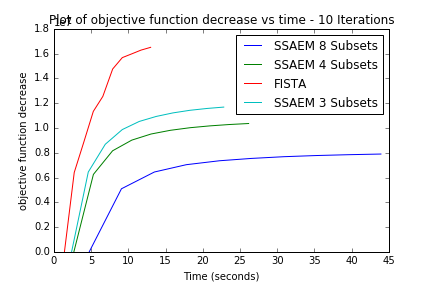
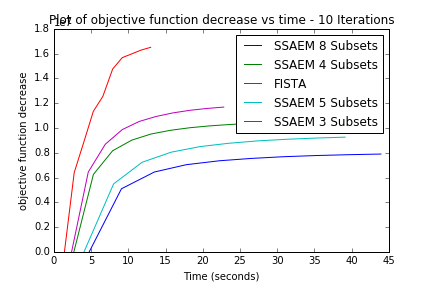
inclusion of pfft
Various changes

diff --git a/polar_fourier_slice.py b/polar_fourier_slice.py
@@ -1,10 +1,18 @@
-# I use the one encoding: utf8
+#!/usr/bin/env python2
+# -*- coding: utf-8 -*-
+"""
+Created on Mon Feb 20 17:46:22 2017
+
+@author: CupulFamily
+"""
+
+
 import pyraft as pr
 import numpy as np
 import math
 import pynfft.nfft as nf
 import warnings
-import matplotlib.pyplot as pp
+import pfft.py as pfft
 
 # TODO: Take sinogram's t_extent and image's corners in
 # consideration;
@@ -32,39 +40,6 @@ def make_fourier_slice_radon_transp( sino, shape = None, sino_zp_factor = 1.5, n
    functions for computing the Radon transform and its numerical transpose.
 
    Usage:
-
-import pyraft as pr
-import matplotlib.pyplot as pp
-import h5py
-import time
-
-f = h5py.File( '/home/elias/curimatã/CM-Day3/tomoTesteH2O.h5', 'r' )
-v = f[ 'images' ]
-sino = pr.image( np.transpose( v[ :, 450, : ] ).astype( np.float64 ), x_extent = ( 0.0, math.pi ) )
-
-fast_radon, fast_transp = make_fourier_slice_radon_transp( sino )
-
-st = time.time()
-bp = fast_transp( sino )
-print 'Done!', time.time() - st
-
-st = time.time()
-bp2 = pr.radon_transpose( sino, np.zeros( bp.shape ) )
-print 'Done!', time.time() - st
-
-pp.imshow( bp, interpolation = 'nearest' ); pp.colorbar(); pp.show()
-pp.imshow( bp2, interpolation = 'nearest' ); pp.colorbar(); pp.show()
-
-st = time.time()
-rbp = fast_radon( bp )
-print 'Done!', time.time() - st
-
-st = time.time()
-rbp2 = pr.radon( bp, pr.image( np.zeros( sino.shape ), x_extent = ( 0.0, math.pi ) ) )
-print 'Done!', time.time() - st
-
-pp.imshow( rbp, interpolation = 'nearest' ); pp.colorbar(); pp.show()
-pp.imshow( rbp2, interpolation = 'nearest' ); pp.colorbar(); pp.show()
 
   """
 
@@ -125,35 +100,26 @@ pp.imshow( rbp2, interpolation = 'nearest' ); pp.colorbar(); pp.show()
 
       # Execute plan:
       plan.f_hat = img
-      fsino = plan.trafo()
-      #print(fsino.shape)
+      fsino = pfft.fft(img,plan.M)
+
       # Assemble sinogram:
       fsino = np.reshape( fsino, ( sino_padded_size, sino.shape[ 1 ] ) )
-      #print(fsino.shape)
-      
-      
+
       # Inverse FFT:
       result = np.fft.ifft( fsino, axis = 0 )
-      #print(result.shape)
-      
-      
+
       # Shift result:
       result = np.fft.ifftshift( result, axes = ( 0, ) )
-      #print(result.shape)
+
       # Remove padding:
-     
       result = result[ delta + odd_sino : result.shape[ 0 ] - delta - extra + odd_sino ]
-        
-      #print(result.shape)
+
       # Get real part:
       result = np.real( result )
-      
+
       # Normalize:
       result /= ( 0.5 * ( sino.shape[ 0 ] - 1 ) )
-      Kino = pr.image(fsino, top_left = (0,1), bottom_right = (math.pi,-1) )
-      pp.imshow(Kino,cmap = 'gray_r', interpolation = 'nearest', 
-		extent = ( Kino.top_left[ 0 ], Kino.bottom_right[ 0 ], Kino.bottom_right[ 1 ], Kino.top_left[ 1 ] ))
-      pp.show
+
       # Return image with appropriate bounding box:
       return pr.image( result, top_left = sino.top_left, bottom_right = sino.bottom_right )
 
@@ -189,42 +155,7 @@ pp.imshow( rbp2, interpolation = 'nearest' ); pp.colorbar(); pp.show()
    return fast_radon, fast_radon_transpose
 
 if __name__ == '__main__':
-   #import pyraft as pr
-   #import matplotlib.pyplot as pp
-   #import h5py
-   #import time
-
-   #f = h5py.File( '/home/elias/curimatã/CM-Day3/tomoTesteH2O.h5', 'r' )
-   #v = f[ 'images' ]
-   #sino = pr.image( np.transpose( v[ :, 450, : ] ).astype( np.float64 ), x_extent = ( 0.0, math.pi ) )
-
-   #fast_radon, fast_transp = make_fourier_slice_radon_transp( sino )
-
-   #st = time.time()
-   #bp = fast_transp( sino )
-   #print 'Done!', time.time() - st
-
-   #st = time.time()
-   #bp2 = pr.radon_transpose( sino, np.zeros( bp.shape, dtype = np.float64 ) )
-   #print 'Done!', time.time() - st
-
-   #print np.max( bp2 ) / np.max( bp ), np.mean( bp2 ) / np.mean( bp )
-
-   #pp.imshow( bp, interpolation = 'nearest' ); pp.colorbar(); pp.show()
-   #pp.imshow( bp2, interpolation = 'nearest' ); pp.colorbar(); pp.show()
-   #pp.imshow( np.absolute( bp2 - bp ), interpolation = 'nearest' ); pp.colorbar(); pp.show()
-
-   #N = 2048; M = 200
-   #img = pr.shepp_logan( ( N, N ) )
-   #fast_radon2, fast_transp2 = make_fourier_slice_radon_transp( pr.image( ( N, M ), x_extent = ( 0.0, math.pi ) ) )
-   #sino2 = fast_radon2( img )
-   #print np.max( sino2 )
-   ##pp.imshow( sino2, interpolation = 'nearest', extent = sino2.extent() ); pp.colorbar(); pp.show()
-   #sino3 = pr.radon( pr.shepp_logan_desc(), pr.image( ( N, M ), x_extent = ( 0.0, math.pi ) ) )
-   ##pp.imshow( sino3, interpolation = 'nearest', extent = sino2.extent() ); pp.colorbar(); pp.show()
-   #pp.imshow( np.absolute( ( sino2 - sino3 ) ), extent = sino2.extent(), interpolation = 'nearest' ); pp.colorbar(); pp.show()
-   #t = np.arange( sino2.shape[ 0 ] )
-   #pp.plot( t, np.absolute( sino2[ :, 0 ] ), t + 1, np.flipud( sino2[ :, sino2.shape[ 1 ] - 1 ] ), 'r' ); pp.show()
+    
    import pyraft as pr
    import matplotlib.pyplot as pp
    import h5py

diff --git a/pfft.py b/pfft.py
@@ -1,0 +1,114 @@
+#!/usr/bin/env python2
+# -*- coding: utf-8 -*-
+"""
+Created on Mon Feb 20 18:19:45 2017
+
+@author: CupulFamily
+"""
+import pyraft as pr
+import numpy as np
+import math
+import warnings
+import matplotlib.pyplot as pp
+
+def fft(img):
+    nfft_zp_factor = 1.2
+    A = np.ones((11,11))
+    #A = pr.image_read( 'TomoData/PhantomData/sl.mat')
+#    PAD = ([i * nfft_zp_factor for i in A.shape])
+#    
+#    PAD[0] = int(PAD[0])
+#    PAD[1] = int(PAD[1])
+#    print(PAD)
+#    A = np.pad(A, PAD, 'minimum')
+    r,c = A.shape
+    N = r-1
+    M = 10
+    m = M
+    dtheta = np.pi/M
+    F = np.zeros((M,r))+0j
+    
+    if np.mod(M,4) == 0:
+        L = M/4
+    elif np.mod(M,2) == 0:
+        L = (M-2)/4
+
+    fx = np.zeros((r,c))+0j
+    fy = np.zeros((r,c))+0j   
+    C = (N+1)/2
+    C2 = M/2
+    for l in range(1,L+1):
+        # scaling by alpha_l
+        alpha = np.cos(l*dtheta)
+        for j in range (0,c) :
+            for i in range(0,r) :
+                fx[i,j]= 0
+                for n in range(0,r):
+                    #II.5 FrFT along rows
+                    fx[i,j] = fx[i,j] + A[i,n]*np.exp(-1*1j*2*np.pi*(i-N/2)*alpha*(n-N/2)/(N+1))
+       
+        for j in range (0,c) :
+            for i in range(0,r) :
+                fy[i,j] = 0
+                for n in range(0,c):
+                    #II.6 FrFT along columns
+                    fy[j,i] = fy[j,i] + fx[n,i]*np.exp(-1*1j*2*np.pi*(i-N/2)*alpha*(n-N/2)/(N+1))
+       #Scaling by Beta_l
+        beta = np.sin(l*dtheta)
+        
+        Fx1 = np.zeros((1,r))+0j
+        Fx2 = np.zeros((1,r))+0j
+        Fy1 = np.zeros((1,r))+0j
+        Fy2 = np.zeros((1,r))+0j
+        Fzero = np.zeros((1,r))+0j
+        Fninety = np.zeros((1,r))+0j
+        for k in range(0,r):
+            p = l
+            if k == C:
+                p = 0
+            
+            ps = 0            
+            for n in range(0,r):
+                #II.9 Completion of 2-D FFT scaled X then Y axis
+                Fx1[0,-k-1] = Fx1[0,-k-1] + fx[n,-k-1]*np.exp(-1*1j*2*np.pi*abs((c-k-1)-N/2)*((C+p)-N/2)*beta*(n-N/2)/(l*(N+1)))
+                Fx2[0,k] = Fx2[0,k] + fx[n,k]*np.exp(-1*1j*2*np.pi*abs(k-N/2)*((C-p)-N/2)*beta*(n-N/2)/(l*(N+1)))
+                
+                #II.10 Completion of 2-D FFT scaled Y then X axis
+                Fy1[0,k] = Fy1[0,k] + fy[k,n]*np.exp(-1*1j*2*np.pi*abs(k-N/2)*((C+p)-N/2)*beta*(n-N/2)/(l*(N+1)))
+                Fy2[0,k] = Fy2[0,k] + fy[k,n]*np.exp(-1*1j*2*np.pi*abs(k-N/2)*((C-p)-N/2)*beta*(n-N/2)/(l*(N+1)))
+                # 0 and 90 degree radial lines
+                if l ==1:
+                    Fzero[0,-k-1] = Fzero[0,-k-1] + fx[n,-k-1]*np.exp(-1*1j*2*np.pi*abs((c-k-1)-N/2)*((C+ps)-N/2)*beta*(n-N/2)/(l*(N+1)))
+                    Fninety[0,k] = Fninety[0,k] + fy[k,n]*np.exp(-1*1j*2*np.pi*abs(k-N/2)*((C+ps)-N/2)*beta*(n-N/2)/(l*(N+1)))    
+            
+            # II.11 storing 4 radial lines
+            F[l,:] = Fx1
+            F[m-l,:] = Fx2
+            F[C2+l,:]= Fy1
+            F[C2-l,:]= Fy2
+            # Storing 0 and 90 degree radial lines
+            if l ==1 :
+               F[0,:] = Fzero
+               F[C2,:] = Fninety
+        print(l)
+    return pr.image(F, top_left = (0,1), bottom_right = (math.pi,-1))
+          
+def adjoint(img):
+    A = np.ones(11)
+    return A
+
+if __name__ == "__main__":
+    Kino = fft(1)
+    Kino = np.transpose(Kino)
+    result = np.fft.ifft(Kino, axis = 0)
+      #print(result.shape)
+    # Shift result:
+    result = np.fft.ifftshift( result, axes = ( 0, ) )
+    result = np.real( result )
+    # Normalize:
+    result /= ( 0.5 * ( 10 - 1 ) )
+    #print
+    pp.imshow(result,cmap = 'gray_r', interpolation = 'nearest', 
+		extent = ( Kino.top_left[ 0 ], Kino.bottom_right[ 0 ], Kino.bottom_right[ 1 ], Kino.top_left[ 1 ] ))
+    pp.savefig('sample_sino.png')
+    pp.show

diff --git a/pfft2.py b/pfft2.py
@@ -1,0 +1,103 @@
+#!/usr/bin/env python2
+# -*- coding: utf-8 -*-
+"""
+Created on Tue Mar  7 00:23:37 2017
+
+@author: CupulFamily
+"""
+
+import pyraft as pr
+import numpy as np
+import math
+import warnings
+
+def fft(img):
+    nfft_zp_factor = 1.2
+    A = np.ones((11,11))
+#    PAD = ([i * nfft_zp_factor for i in A.shape])
+#    
+#    PAD[0] = int(PAD[0])
+#    PAD[1] = int(PAD[1])
+#    print(PAD)
+#    A = np.pad(A, PAD, 'minimum')
+    r,c = A.shape
+    Z = np.zeros((r,c))+0j
+    Z2 = np.zeros((r,c))+0j
+    N = r-1
+    M = 10
+    m = M
+    dtheta = np.pi/M
+    F = np.zeros((M,r))+0j
+    
+    if np.mod(M,4) == 0:
+        L = M/4
+    elif np.mod(M,2) == 0:
+        L = (M-2)/4
+
+    fx = np.zeros((r,c))+0j
+    fy = np.zeros((r,c))+0j   
+    C = (N+1)/2
+    C2 = M/2
+    B = np.zeros((r,1))+0j
+    CK = np.zeros((r,1))+0j  
+    for l in range(1,L+1):
+        alpha = np.cos(l*dtheta)
+        for j in range (0,c) :
+          B[j,0] = np.exp(1j*np.pi*alpha*N*(j-N/2)/(N+1))
+          CK[j,0] = np.exp(1j*np.pi*alpha*N*(j)/(N+1))
+        for i in range(0,c):
+            Z[i,:] = A[i,:]*B[:,0]
+            Z2[:,i] = A[:,i]*B[:,0]
+            fx[i,:] = np.fft.fft(Z[i,:])
+            fy[:,i] = np.fft.fft(Z2[:,i])
+            fx[i,:] *= CK[:,0]
+            fy[:,i] *= CK[:,0]   
+
+        beta = np.sin(l*dtheta)
+        Fx1 = np.zeros((1,r))+0j
+        Fx2 = np.zeros((1,r))+0j
+        Fy1 = np.zeros((1,r))+0j
+        Fy2 = np.zeros((1,r))+0j
+        Fzero = np.zeros((1,r))+0j
+        Fninety = np.zeros((1,r))+0j
+        for k in range(0,r):
+            p = l
+            if k == C:
+                p = 0
+            
+            ps = 0            
+           
+            for n in range(0,r):
+                Fx1[0,-k-1] = Fx1[0,-k-1] + fx[n,-k-1]*np.exp(-1*1j*2*np.pi*abs((c-k-1)-N/2)*((c+p)-N/2)*beta*(n-N/2)/(l*(N+1)))
+                Fx2[0,k] = Fx2[0,k] + fx[n,k]*np.exp(-1*1j*2*np.pi*abs(k-N/2)*((c-p)-N/2)*beta*(n-N/2)/(l*(N+1)))
+                Fy1[0,k] = Fy1[0,k] + fy[k,n]*np.exp(-1*1j*2*np.pi*abs(k-N/2)*((c+p)-N/2)*beta*(n-N/2)/(l*(N+1)))
+                Fy2[0,k] = Fy2[0,k] + fy[k,n]*np.exp(-1*1j*2*np.pi*abs(k-N/2)*((c-p)-N/2)*beta*(n-N/2)/(l*(N+1)))
+                if l ==1:
+                    Fzero[0,-k-1] = Fzero[0,-k-1] + fx[n,-k-1]*np.exp(-1*1j*2*np.pi*abs((c-k-1)-N/2)*((c+ps)-N/2)*beta*(n-N/2)/(l*(N+1)))
+                    Fninety[0,k] = Fninety[0,k] + fy[k,n]*np.exp(-1*1j*2*np.pi*abs(k-N/2)*((c+ps)-N/2)*beta*(n-N/2)/(l*(N+1)))    
+            F[l,:] = Fx1
+            F[m-l,:] = Fx2
+            F[C2+l,:]= Fy1
+            F[C2-l,:]= Fy2
+            if l ==1 :
+               F[0,:] = Fzero
+               F[C2,:] = Fninety
+    return pr.image(F, top_left = (0,1), bottom_right = (math.pi,-1))
+          
+def ifft(img):
+    A = np.ones(11)
+    return A
+
+if __name__ == "__main__":
+    Kino = fft(1)
+    Kino = np.transpose(Kino)
+    result = np.fft.ifft(Kino, axis = 0)
+      #print(result.shape)
+      # Shift result:
+    result = np.fft.ifftshift( result, axes = ( 0, ) )
+    result = np.real( result )
+    # Normalize:
+    result /= ( 0.5 * ( sino.shape[ 0 ] - 1 ) )
+    pp.imshow(Kino,cmap = 'gray_r', interpolation = 'nearest', 
+		extent = ( Kino.top_left[ 0 ], Kino.bottom_right[ 0 ], Kino.bottom_right[ 1 ], Kino.top_left[ 1 ] ))
+    pp.show

diff --git a/SSAEM.py b/SSAEM.py
@@ -65,7 +65,7 @@ if __name__ == "__main__":
     row,col = tmp_counts.shape
 
     # initialize splits and image
-    M = 4 # Number of subsets
+    M = 5 # Number of subsets
     N = 10 # Number of iterations
     # x = np.zeros((row,row)) * ( np.sum(tmp_counts) / np.sum( ffast_radon( np.ones((row,row)) ) ) )
     x = np.ones((row,row))*0.1
@@ -98,7 +98,7 @@ if __name__ == "__main__":
     subiter_time = np.zeros((M,1))
     D = np.zeros((row,col))
     # Preallocate parameters
-    lam = 2.15*10**(1)#2.5*10**(-3)
+    lam = 2.4*10**(1)#2.5*10**(-3)
     lam0 = lam
     tau = 10**(-14)#1.1*10**(-4)
     #pj = ffast_transp(tmp_counts-tmp_dark)
